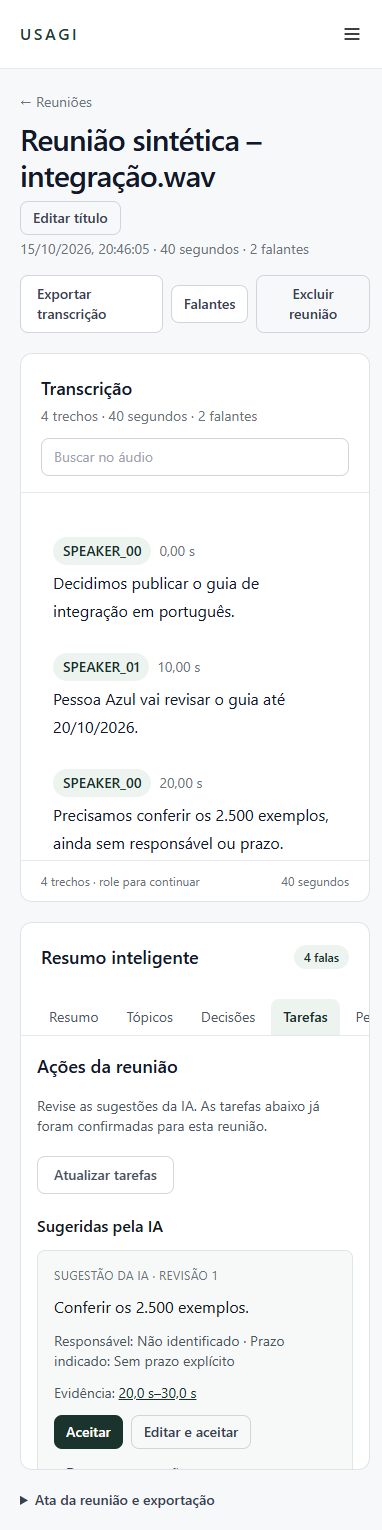
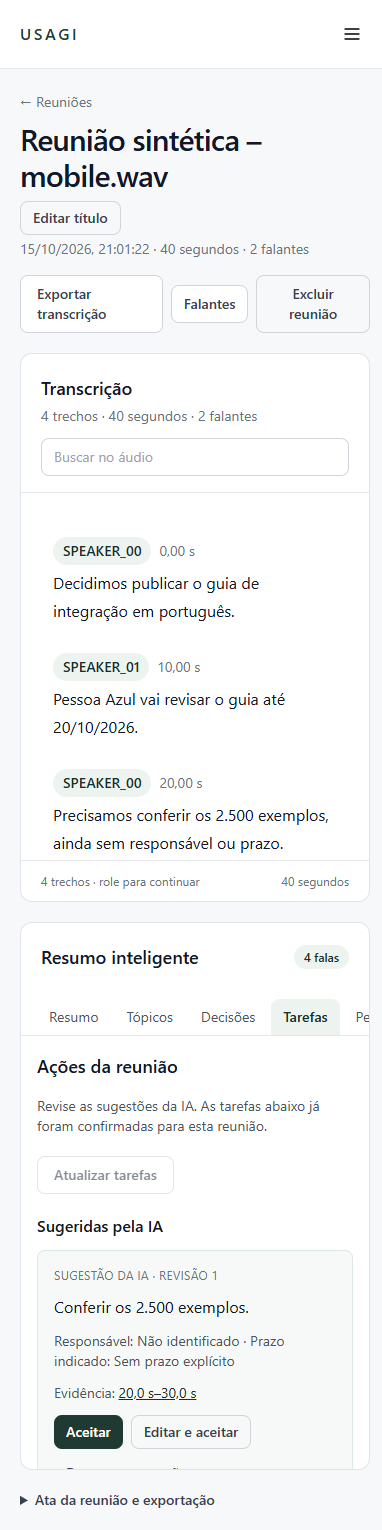
test(e2e): repeat the complete invitee journey on mobile

Changed region(s): [[0.0576, 0.0922, 0.5759, 0.1229], [0.288, 0.1536, 0.3743, 0.1843]]

diff --git a/modules/frontendv2/homologation/journey.playwright.js b/modules/frontendv2/homologation/journey.playwright.js
@@ -4,6 +4,10 @@
 async (page) => {
   const base = 'http://127.0.0.1:4180'
   const api = 'http://127.0.0.1:2029'
+  const mobile = page.viewportSize()?.width < 768
+  const persona = mobile ? 'mobile' : 'member'
+  const email = `${persona}@example.invalid`
+  const filename = mobile ? 'Reunião sintética – mobile.wav' : 'Reunião sintética – integração.wav'
   const events = [], errors = [], stages = []
   const started = Date.now()
   let clicks = 0
@@ -22,7 +26,7 @@ async (page) => {
   const waitText = async (text) => page.locator('p:visible, h1:visible, h2:visible, h3:visible')
     .filter({ hasText: text }).first().waitFor({ timeout: 25000 })
   const record = label => stages.push({ label, elapsed_seconds: Math.round((Date.now() - started) / 1000), clicks, path: new URL(page.url()).pathname })
-  await page.setViewportSize({ width: 1440, height: 1000 })
+  await page.setViewportSize(mobile ? { width: 390, height: 844 } : { width: 1440, height: 1000 })
   await page.goto(base)
   await page.evaluate(() => { localStorage.clear(); sessionStorage.clear() })
   await page.goto(`${base}/new-transcription`)
@@ -30,7 +34,7 @@ async (page) => {
   check(await page.getByRole('link', { name: 'Administração', exact: true }).count() === 0, 'Guest must not see admin')
   record('Guest demonstrativo')
   await page.goto(`${base}/signup?returnTo=%2Fnew-transcription`)
-  await page.getByLabel('E-mail', { exact: true }).fill('member@example.invalid')
+  await page.getByLabel('E-mail', { exact: true }).fill(email)
   await page.getByLabel('Senha', { exact: true }).fill('Synthetic-passphrase!')
   await page.getByLabel('Confirmar senha', { exact: true }).fill('Synthetic-passphrase!')
   await click(page.getByRole('button', { name: 'Criar conta', exact: true }))
@@ -43,10 +47,10 @@ async (page) => {
   check(adminLogin.ok(), 'Synthetic admin login failed')
   const admin = await adminLogin.json()
   const adminHeaders = { Authorization: `Bearer ${admin.access_token}` }
-  const accounts = await page.request.get(`${api}/admin/settings/accounts?q=member`, { headers: adminHeaders })
+  const accounts = await page.request.get(`${api}/admin/settings/accounts?q=${persona}`, { headers: adminHeaders })
   const accountData = await accounts.json()
   const accountsList = accountData.items
-  const member = accountsList.find(item => item.email === 'member@example.invalid')
+  const member = accountsList.find(item => item.email === email)
   check(member, 'Admin search must find the newly created internal account')
   const granted = await page.request.post(`${api}/admin/accounts/${member.user_id}/beta`, { headers: adminHeaders,
     data: { capabilities: ['transcription.platform', 'intelligence.platform'], round_id: 'test-round', expires_at: new Date(Date.now() + 3600000).toISOString() } })
@@ -59,7 +63,7 @@ async (page) => {
   wav.writeUInt32LE(16, 16); wav.writeUInt16LE(1, 20); wav.writeUInt16LE(1, 22)
   wav.writeUInt32LE(8000, 24); wav.writeUInt32LE(16000, 28); wav.writeUInt16LE(2, 32); wav.writeUInt16LE(16, 34)
   wav.write('data', 36); wav.writeUInt32LE(wav.length - 44, 40)
-  await page.locator('input[type=file]').setInputFiles({ name: 'Reunião sintética – integração.wav', mimeType: 'audio/wav', buffer: wav })
+  await page.locator('input[type=file]').setInputFiles({ name: filename, mimeType: 'audio/wav', buffer: wav })
   const submit = page.getByRole('button', { name: /Iniciar Transcrição/i }).last()
   await click(submit)
   await page.waitForURL(/\/transcriptions\/\d+$/, { timeout: 20000 })
@@ -67,7 +71,7 @@ async (page) => {
   record('Upload e processamento')
   await page.reload()
   await waitText('Decidimos publicar o guia')
-  check(await page.getByText('Reunião sintética – integração.wav', { exact: true }).count() > 0, 'Original filename lost')
+  check(await page.getByText(filename, { exact: true }).count() > 0, 'Original filename lost')
   record('Resultado após refresh')
   await page.goto(`${base}/meetings/${id}`)
   await click(page.getByRole('button', { name: 'Gerar resumo', exact: true }))
@@ -82,7 +86,7 @@ async (page) => {
   await click(page.getByRole('button', { name: 'Aceitar', exact: true }).first())
   await page.getByRole('button', { name: 'Concluir', exact: true }).first().waitFor()
   record('Decisão e tarefa aceita')
-  await page.screenshot({ path: '.local-artifacts/beta-e2e-desktop.png', fullPage: true })
+  await page.screenshot({ path: `.local-artifacts/beta-e2e-${mobile ? 'mobile-flow' : 'desktop'}.png`, fullPage: true })
   await page.setViewportSize({ width: 390, height: 844 })
   await page.screenshot({ path: '.local-artifacts/beta-e2e-mobile.png', fullPage: true })
   check(await page.evaluate(() => document.documentElement.scrollWidth <= innerWidth), 'Horizontal overflow on mobile')
@@ -91,7 +95,7 @@ async (page) => {
   await click(page.getByRole('button', { name: 'Área da conta', exact: true }).last())
   await click(page.getByRole('button', { name: 'Sair', exact: true }).last())
   await page.goto(`${base}/login?returnTo=${encodeURIComponent(`/meetings/${id}`)}`)
-  await page.getByLabel('E-mail', { exact: true }).fill('member@example.invalid')
+  await page.getByLabel('E-mail', { exact: true }).fill(email)
   await page.getByLabel('Senha', { exact: true }).fill('Synthetic-passphrase!')
   await click(page.getByRole('button', { name: 'Entrar', exact: true }))
   await page.waitForURL(`**/meetings/${id}`)
@@ -107,5 +111,5 @@ async (page) => {
   check(events.filter(item => item.path === '/transcriptions/jobs' && item.status === 202).length === 1,
     'Exactly one upload submission must be authorized')
   check(errors.length === 0, 'Unexpected JavaScript error')
-  return { id, clicks, stages, javascriptErrors: errors, networkErrors: events.filter(item => item.status >= 400) }
+  return { id, viewport: mobile ? 'mobile-full' : 'desktop', clicks, stages, javascriptErrors: errors, networkErrors: events.filter(item => item.status >= 400) }
 }

diff --git a/modules/frontendv2/homologation/firebaseDouble.js b/modules/frontendv2/homologation/firebaseDouble.js
@@ -2,7 +2,7 @@
 const key = 'beta-e2e-synthetic-identity'
 const read = () => JSON.parse(localStorage.getItem(key) || 'null')
 const signed = (name) => {
-  if (!['member', 'other', 'google'].includes(name)) throw new Error('Unknown synthetic persona')
+  if (!['member', 'mobile', 'other', 'google'].includes(name)) throw new Error('Unknown synthetic persona')
   localStorage.setItem(key, JSON.stringify({ uid: name, token: `beta-e2e-${name}` }))
   return { verified: true, token: `beta-e2e-${name}` }
 }

diff --git a/modules/backend/tests/homologation/doubles.py b/modules/backend/tests/homologation/doubles.py
@@ -7,7 +7,7 @@ import wave
 from fastapi import HTTPException
 
 PROJECT = "usagi-beta-e2e"
-PERSONAS = {name: f"{name}@example.invalid" for name in ("member", "other", "admin", "google")}
+PERSONAS = {name: f"{name}@example.invalid" for name in ("member", "mobile", "other", "admin", "google")}
 SEGMENTS = [
     {"start": 0.0, "end": 10.0, "speaker": "SPEAKER_00",
      "text": "Decidimos publicar o guia de integração em português."},
